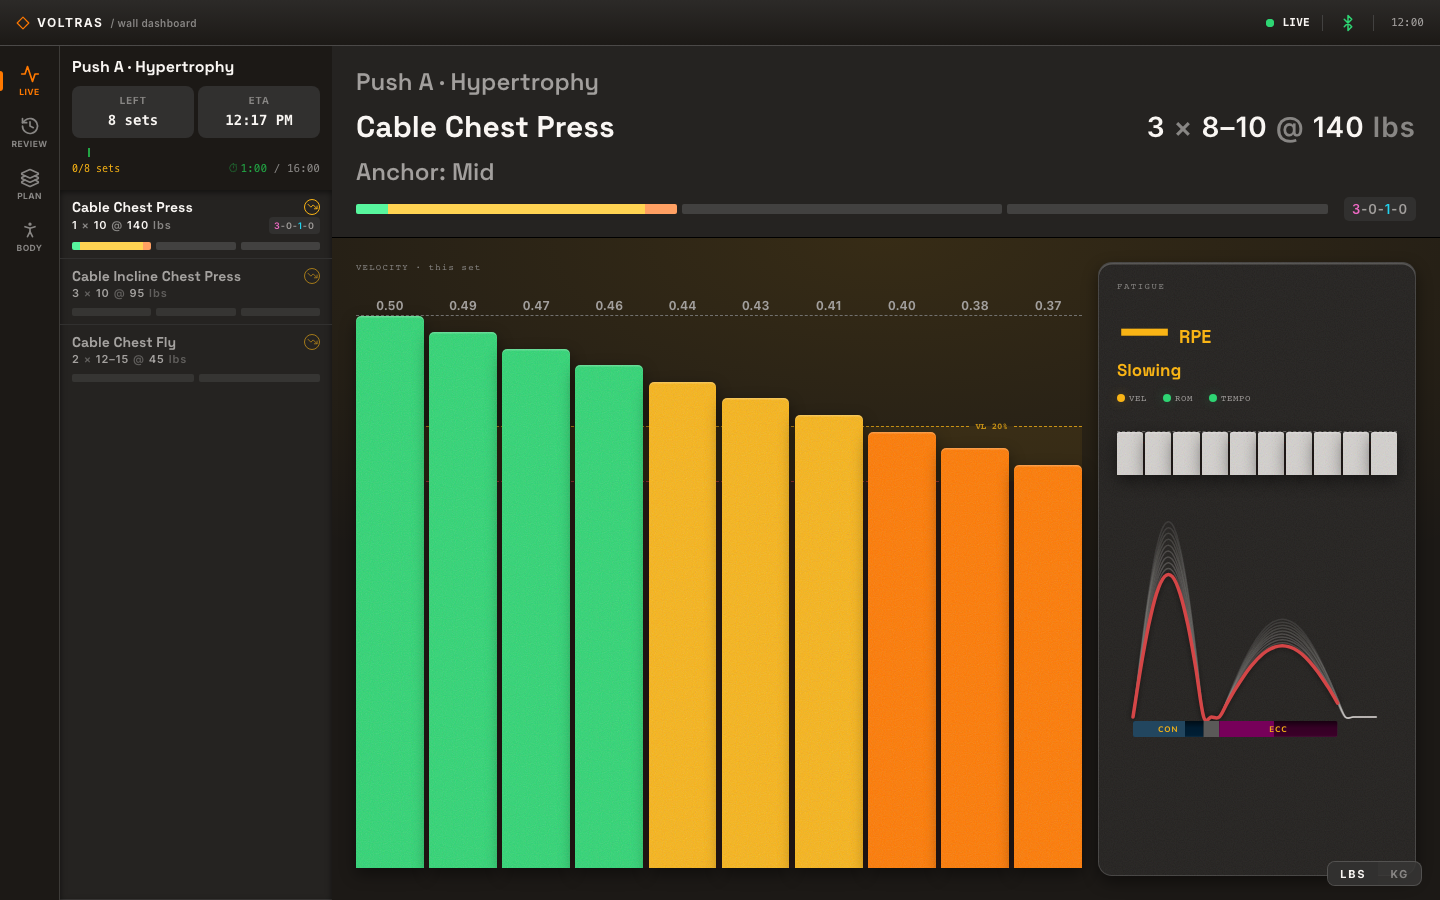
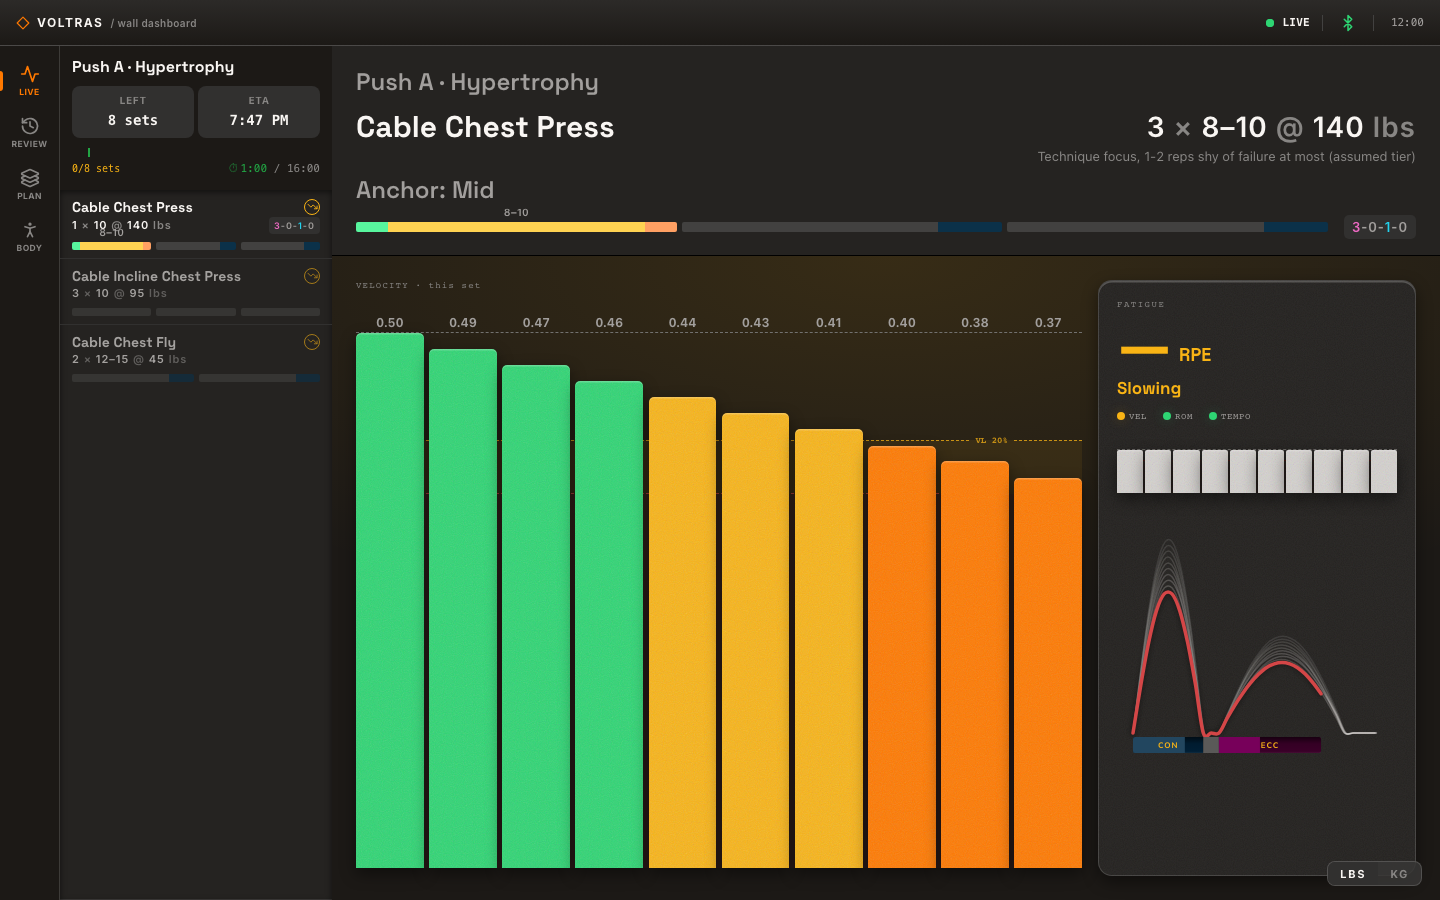
VW-670: render the effort target caption on the live header and rest recap (#566)
* VW-670: render the effort target caption on the live header and recap

* VW-670: re-pin live captures and document the effort caption

* VW-670: name the PR in the CHANGELOG entry

---------

diff --git a/src/dashboard/__tests__/spa-effort-caption.test.ts b/src/dashboard/__tests__/spa-effort-caption.test.ts
@@ -1,0 +1,118 @@
+// The effort target caption on the live header and the rest recap (VW-670).
+
+import { createElement } from 'react';
+import { renderToStaticMarkup } from 'react-dom/server';
+import { describe, expect, it } from 'vitest';
+
+import { ExerciseHeader } from '../spa/live-page/ExerciseHeader.js';
+import { RestView } from '../spa/live-page/RestView.js';
+import { effortCaption } from '../spa/live-page/live-copy.js';
+import type { CompletedSet, DashboardModel, SessionModel } from '../spa/live-page/model.js';
+import type { TierView } from '../read-models/session-plan.js';
+import { exerciseFatigueStop } from '../../state/velocity-loss-intent.js';
+
+const CORPUS = 'RP rp-s7-rir-self-report-accuracy-by-tier, rp-s4-beginner-rir-floor-progression';
+const DECLARED: TierView = { tier: 'advanced', confidence: 'confident', source: 'declared' };
+
+const SET: CompletedSet = {
+  fatigueStop: exerciseFatigueStop(undefined),
+  fatigueVerdict: null,
+  exerciseName: 'Cable Row',
+  weightLbs: 100,
+  mode: 'weight',
+  repCount: 8,
+  reps: [0.6, 0.55],
+  peakForceLbs: null,
+  setPurpose: 'working',
+};
+
+function sessionModel(over: Partial<SessionModel> = {}): SessionModel {
+  return {
+    hasSession: true,
+    exerciseName: 'Cable Row',
+    title: null,
+    lifter: null,
+    weightLbs: 100,
+    unit: 'lbs',
+    completedSets: [],
+    plannedExercises: [],
+    restSec: null,
+    restBasis: null,
+    plannedSets: 3,
+    targetReps: 8,
+    expectedSetupCard: null,
+    sessionPace: null,
+    ...over,
+  };
+}
+
+function renderHeader(session: SessionModel): string {
+  const model: DashboardModel = { live: null, session, restElapsedMs: null };
+  return renderToStaticMarkup(createElement(ExerciseHeader, { model }));
+}
+
+function renderRecap(session: SessionModel): string {
+  const model: DashboardModel = { live: null, session, restElapsedMs: 30_000 };
+  return renderToStaticMarkup(createElement(RestView, { model }));
+}
+
+describe('effortCaption', () => {
+  it('labels a coach-written RPE as the target, unconverted', () => {
+    expect(effortCaption({ text: 'RPE 8', basis: 'plan' })).toBe('Target RPE 8');
+  });
+
+  it("shows a declared tier's wall text as written", () => {
+    const basis = `advanced tier (declared) · ${CORPUS}`;
+
+    expect(effortCaption({ text: 'Target 2-3 RIR', basis })).toBe('Target 2-3 RIR');
+  });
+
+  it('marks a tier nobody declared as assumed', () => {
+    const basis = `beginner tier (assumed) · ${CORPUS}`;
+    const text = 'Technique focus, 1-2 reps shy of failure at most';
+
+    expect(effortCaption({ text, basis })).toBe(`${text} (assumed tier)`);
+  });
+
+  it('gives no caption without an effort target', () => {
+    expect(effortCaption(null)).toBeNull();
+  });
+});
+
+describe('ExerciseHeader effort caption', () => {
+  it('renders the plan RPE under the lockup', () => {
+    const html = renderHeader(sessionModel({ targetRpe: 8, tier: DECLARED }));
+
+    expect(html).toContain('effort-caption');
+    expect(html).toContain('Target RPE 8');
+  });
+
+  it("renders the tier's target when the plan states no RPE", () => {
+    expect(renderHeader(sessionModel({ tier: DECLARED }))).toContain('Target 2-3 RIR');
+  });
+
+  it('renders no caption element without a plan RPE or a tier', () => {
+    expect(renderHeader(sessionModel())).not.toContain('effort-caption');
+  });
+
+  it('renders no caption on an unplanned session, which has no lockup', () => {
+    const html = renderHeader(
+      sessionModel({ plannedSets: null, targetReps: null, tier: DECLARED }),
+    );
+
+    expect(html).not.toContain('effort-caption');
+  });
+});
+
+describe('rest recap effort caption', () => {
+  it('renders the same caption under the recap heading', () => {
+    const html = renderRecap(sessionModel({ completedSets: [SET], targetRpe: 7 }));
+
+    expect(html).toContain('effort-caption');
+    expect(html).toContain('Target RPE 7');
+  });
+
+  it('renders no caption element without an effort target', () => {
+    expect(renderRecap(sessionModel({ completedSets: [SET] }))).not.toContain('effort-caption');
+  });
+});

diff --git a/src/dashboard/spa/live-page/ExerciseHeader.tsx b/src/dashboard/spa/live-page/ExerciseHeader.tsx
@@ -18,8 +18,10 @@ import {
   deriveActiveSetStates,
   derivePrescription,
   stageIsEnded,
+  type EffortCell,
 } from './model';
 import { type MassUnit } from './mass';
+import { effortCaption } from './live-copy';
 
 const t = getSemanticColors('dark');
 
@@ -43,6 +45,23 @@ function clampLerp(w: number, wLo: number, wHi: number, vLo: number, vHi: number
   if (w <= wLo) return vLo;
   if (w >= wHi) return vHi;
   return vLo + ((w - wLo) / (wHi - wLo)) * (vHi - vLo);
+}
+
+/**
+ * The effort target caption (VW-670) in the rest-basis caption's style, with what it rests on
+ * (the plan, or the tier and its corpus) on hover. Renders nothing without a target.
+ */
+export function EffortCaption({ effort }: { effort: EffortCell | null }) {
+  const color = useOnSurfaceColor('tertiary');
+  const caption = effortCaption(effort);
+  if (effort === null || caption === null) return null;
+  return (
+    <Tooltip label={effort.basis} placement="bottom">
+      <Text testID="effort-caption" style={{ color, fontSize: 13 }}>
+        {caption}
+      </Text>
+    </Tooltip>
+  );
 }
 
 // --- Page-level exercise header -----------------------------------------------
@@ -236,13 +255,16 @@ export function ExerciseHeader({
         )}
         {/* targets: pinned right when inline, tucked under the name (smaller) when wrapped. */}
         {targets && (
-          <SetsRepsLoad
-            sets={targets.sets}
-            reps={targets.reps}
-            load={targets.load}
-            unit={targets.unit}
-            fontSize={targetSize}
-          />
+          <View style={{ alignItems: wrap ? 'flex-start' : 'flex-end', gap: 4 }}>
+            <SetsRepsLoad
+              sets={targets.sets}
+              reps={targets.reps}
+              load={targets.load}
+              unit={targets.unit}
+              fontSize={targetSize}
+            />
+            <EffortCaption effort={targets.effort} />
+          </View>
         )}
       </View>
       {/* The expected setup card at exercise start (VW-275) — anchor/mount/cable-length/mode,

diff --git a/src/dashboard/spa/live-page/RestView.tsx b/src/dashboard/spa/live-page/RestView.tsx
@@ -31,6 +31,7 @@ import {
 } from './model';
 import { setFatigueState } from './fatigue-state';
 import { restBasisCaption } from './live-copy';
+import { EffortCaption } from './ExerciseHeader';
 import { type MassUnit, formatMass } from './mass';
 import { deriveCoachLineCaption, type CoachLineCaption } from './coach-line-model';
 import { dashboardStore } from '../store';
@@ -322,6 +323,11 @@ function RecapCard({
         setStates={rows.map((row) => ({ status: 'done' as const, velocities: row.velocities }))}
         testID="recap-card-heading"
       />
+      {heading.effort !== null && (
+        <View style={{ paddingHorizontal: 12, paddingBottom: 8 }}>
+          <EffortCaption effort={heading.effort} />
+        </View>
+      )}
       <View style={{ borderTopWidth: 1 }}>
         <SetTableHeader unit={heading.unit} showPrevious={false} />
         {rows.map((row, i) => (

diff --git a/src/dashboard/spa/live-page/live-copy.ts b/src/dashboard/spa/live-page/live-copy.ts
@@ -40,3 +40,17 @@ export function restBasisCaption(basis: {
   if (basis.source === 'intent_default') return base;
   return `${base} +${basis.extensionSeconds} s`;
 }
+
+/** The basis `derivePrescription` gives a coach-written RPE. */
+const PLAN_EFFORT_BASIS = 'plan';
+
+/**
+ * The effort target caption under the prescription lockup (VW-670), labelled as a target so
+ * it never reads as a reading (VW-485). A tier nobody declared is marked assumed. Null hides it.
+ */
+export function effortCaption(effort: { text: string; basis: string } | null): string | null {
+  if (effort === null) return null;
+  if (effort.basis === PLAN_EFFORT_BASIS) return `Target ${effort.text}`;
+  if (effort.basis.includes(' tier (assumed)')) return `${effort.text} (assumed tier)`;
+  return effort.text;
+}

diff --git a/site/reference/dashboard-pages.md b/site/reference/dashboard-pages.md
@@ -17,9 +17,10 @@ sources:
   - src/dashboard/read-models/session-summary.ts
   - src/dashboard/spa/live-page/stage-variant.ts
   - src/dashboard/spa/live-page/RestView.tsx
+  - src/dashboard/spa/live-page/ExerciseHeader.tsx
   - src/tool-registry.ts
   - src/tools/truecoach-tools.ts
-lastVerified: 2026-09-28
+lastVerified: 2026-09-29
 ---
 
 # Dashboard pages
@@ -45,8 +46,11 @@ that says what does not work.
 ## What each page shows
 
 **Live (`#/`).** The current set as it happens, with velocity loss and form and tempo lights
-against the set's stop threshold. It does not show an effort estimate (RPE or reps in reserve)
-yet.
+against the set's stop threshold. Under the prescription it shows the effort target for a
+working set: the plan's RPE as written, else the target for your training tier, marked
+"(assumed tier)" when no tier was declared. Hover it for what the target rests on. A session
+with no plan shows no target. The page does not show an effort estimate (RPE or reps in
+reserve) read off the set yet.
 
 **Plan builder (`#/plan`).** Browse the exercise catalog, then build, change or reorder a
 workout. Lifts a coach adds with the `plan.*` tools appear without a reload, because the page
@@ -70,15 +74,15 @@ recorded against the mock adapter never count on this page.
 Each row names the tools whose calls put something on a screen. The status word is the same
 one the table above gives for that route.
 
-| Screen             | Route       | Status                                 | What you see                                                                                                       | Tools that put it there                                                                                                                                                                      |
-| ------------------ | ----------- | -------------------------------------- | ------------------------------------------------------------------------------------------------------------------ | -------------------------------------------------------------------------------------------------------------------------------------------------------------------------------------------- |
-| Live, during a set | `#/`        | Available                              | The device, the current set, velocity against the set's stop line, the fatigue card, the load and the prescription | `device.connect`, `session.start`, `set.start` (or auto-arm on your own reps), `device.set_weight` for the load, `plan.attach_to_session` for the prescription                               |
-| Live, resting      | `#/`        | Available                              | The set you just finished, its verdict, the rest ring and the pace footer                                          | `set.end`; the ring counts down the rest the attached plan sets for the lift, else a default                                                                                                 |
-| Live, two devices  | `#/`        | Available                              | Left and right velocity on one chart                                                                               | `device.connect` once with `slot` set to `left` and once to `right`; `slot.bind` remembers each device's side                                                                                |
-| Session summary    | `#/summary` | Available                              | A fatigue verdict per exercise, form lights, the worst velocity loss and a progression recommendation              | `session.start`, `set.start` and `set.end` for the sets; `plan.program.create` and `plan.exercise.create` for the recommendation, which needs the exercise prescribed in the current program |
-| Plan builder       | `#/plan`    | Available                              | The exercise catalog and the workout editor                                                                        | `plan.program.create`, `plan.template.create`, `plan.exercise.create`, `truecoach.import_week`, and the page's own edits                                                                     |
-| Goals              | `#/goals`   | [Coming soon](/coming-soon/goals-page) | Priorities with committed and stretch bands, the weekly trajectory, and bodyweight and attendance cards            | `goal.declare_priorities`, `goal.propose_targets`, `goal.accept_target`, `set.end`, `profile.log_bodyweight`, `profile.set_diet_phase`                                                       |
-| Body               | `#/body`    | [Coming soon](/coming-soon/body-map)   | Weekly sets per muscle, a strength trend per muscle, and planned against done this week                            | `set.end` on a real device, `session.set_exercise` to name the lift, `plan.exercise.create` for the week's planned sets, `profile.set_diet_phase`                                            |
+| Screen             | Route       | Status                                 | What you see                                                                                                                          | Tools that put it there                                                                                                                                                                                                    |
+| ------------------ | ----------- | -------------------------------------- | ------------------------------------------------------------------------------------------------------------------------------------- | -------------------------------------------------------------------------------------------------------------------------------------------------------------------------------------------------------------------------- |
+| Live, during a set | `#/`        | Available                              | The device, the current set, velocity against the set's stop line, the fatigue card, the load, the prescription and its effort target | `device.connect`, `session.start`, `set.start` (or auto-arm on your own reps), `device.set_weight` for the load, `plan.attach_to_session` for the prescription and its RPE, `profile.set_training_background` for the tier |
+| Live, resting      | `#/`        | Available                              | The set you just finished with its effort target, its verdict, the rest ring and the pace footer                                      | `set.end`; the ring counts down the rest the attached plan sets for the lift, else a default                                                                                                                               |
+| Live, two devices  | `#/`        | Available                              | Left and right velocity on one chart                                                                                                  | `device.connect` once with `slot` set to `left` and once to `right`; `slot.bind` remembers each device's side                                                                                                              |
+| Session summary    | `#/summary` | Available                              | A fatigue verdict per exercise, form lights, the worst velocity loss and a progression recommendation                                 | `session.start`, `set.start` and `set.end` for the sets; `plan.program.create` and `plan.exercise.create` for the recommendation, which needs the exercise prescribed in the current program                               |
+| Plan builder       | `#/plan`    | Available                              | The exercise catalog and the workout editor                                                                                           | `plan.program.create`, `plan.template.create`, `plan.exercise.create`, `truecoach.import_week`, and the page's own edits                                                                                                   |
+| Goals              | `#/goals`   | [Coming soon](/coming-soon/goals-page) | Priorities with committed and stretch bands, the weekly trajectory, and bodyweight and attendance cards                               | `goal.declare_priorities`, `goal.propose_targets`, `goal.accept_target`, `set.end`, `profile.log_bodyweight`, `profile.set_diet_phase`                                                                                     |
+| Body               | `#/body`    | [Coming soon](/coming-soon/body-map)   | Weekly sets per muscle, a strength trend per muscle, and planned against done this week                                               | `set.end` on a real device, `session.set_exercise` to name the lift, `plan.exercise.create` for the week's planned sets, `profile.set_diet_phase`                                                                          |
 
 The `goal.*` tools are available today. The Coming soon label on the Goals row is about the
 page, not the tools.

diff --git a/CHANGELOG.md b/CHANGELOG.md
@@ -48,6 +48,11 @@ entry is written from the user's point of view is a review question, not a check
 
 ### Added
 
+- The live page and the rest recap now show the effort target for a working set under the
+  prescription: the plan's RPE as the coach wrote it, else the target for your training tier,
+  marked "(assumed tier)" when you never declared one. Hover it for what the target rests on.
+  A session with no plan shows none (VW-670, #566).
+
 - A **For coaches** section on the docs site, for a coach who reads a lifter's reports and
   has never seen an MCP (VMCP-07.07): the onboarding model with a data-loop diagram, consent
   and the data loop (with TrueCoach's terms quoted in full and the write-back marked
